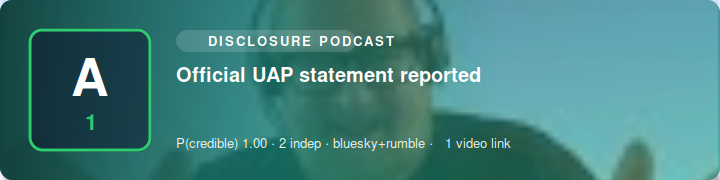
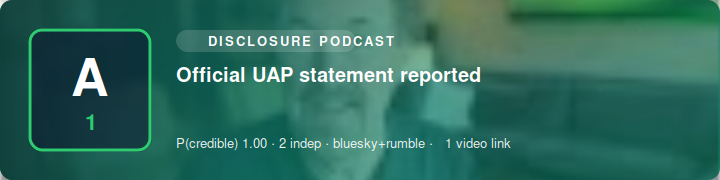
SITREP 2026-07-06 10:50 UTC

diff --git a/index.html b/index.html
@@ -1,1 +1,1 @@
-<!doctype html><meta charset=utf-8><title>Science Bob News — SITREP</title><style>body{font:16px/1.5 system-ui,sans-serif;max-width:760px;margin:2rem auto;padding:0 1rem;color:#111}h1{font-size:1.5rem}h2{margin-top:1.6rem;border-bottom:1px solid #ddd;padding-bottom:.2rem}ul{list-style:none;padding:0}li{margin:.9rem 0}.hl{font-weight:600}.meta{color:#555;font-size:.85rem}.src{font-size:.85rem}.vid{font-size:.85rem;margin-top:.15rem}.card{display:block;max-width:100%;height:auto;border-radius:8px;margin:.4rem 0 .5rem}.upd{background:#fde68a;padding:0 .3rem;border-radius:.2rem;font-size:.75rem}.sub{color:#777;font-size:.85rem}footer{color:#777;font-size:.8rem;margin-top:2rem;border-top:1px solid #ddd;padding-top:.6rem}</style><h1>🛸 Science Bob News</h1><div class="sub">UAP / UFO / USO SITREP · updated 2026-07-06 10:40 UTC · automated</div><h2>Corroborated</h2><ul><li><i>No corroborated reports.</i></li></ul><h2>Developing / unconfirmed</h2><ul><li><img class="card" src="https://n4hy.github.io/sciencebobnews-site/card_d_1.svg" alt="" width="720" height="180"><div class="hl">UAP whistleblower testimony reported</div><div class="meta">reliability <b>A1</b> · P(credible)=1.0 · 1 independent source(s) · mastodon</div><div class="src"><a href="https://mastodon.au/@vibewire/116871937286852378">@vibewire@mastodon.au</a></div></li><li><img class="card" src="https://n4hy.github.io/sciencebobnews-site/card_d_2.svg" alt="" width="720" height="180"><div class="hl">UAP report (Mind)</div><div class="meta">reliability <b>A1</b> · P(credible)=1.0 · 1 independent source(s) · rumble</div><div class="src"><a href="https://www.youtube.com/watch?v=Kt7sNS1Bx6E">@podcast</a></div><div class="vid">📹 <a href="https://www.youtube.com/watch?v=Kt7sNS1Bx6E">video</a></div></li><li><img class="card" src="https://n4hy.github.io/sciencebobnews-site/card_d_3.svg" alt="" width="720" height="180"><div class="hl">UAP report (McMinnville)</div><div class="meta">reliability <b>A1</b> · P(credible)=1.0 · 1 independent source(s) · rumble</div><div class="src"><a href="https://www.youtube.com/watch?v=7OT6uJ0yzVY">@podcast</a></div><div class="vid">📹 <a href="https://www.youtube.com/watch?v=7OT6uJ0yzVY">video</a></div></li><li><img class="card" src="https://n4hy.github.io/sciencebobnews-site/card_d_4.svg" alt="" width="720" height="180"><div class="hl">UAP report (Titles)</div><div class="meta">reliability <b>A1</b> · P(credible)=1.0 · 1 independent source(s) · rumble</div><div class="src"><a href="https://www.youtube.com/watch?v=xExbXEg6tVY">@podcast</a></div><div class="vid">📹 <a href="https://www.youtube.com/watch?v=xExbXEg6tVY">video</a></div></li><li><img class="card" src="https://n4hy.github.io/sciencebobnews-site/card_d_5.svg" alt="" width="720" height="180"><div class="hl">UAP whistleblower testimony reported (Frank)</div><div class="meta">reliability <b>A1</b> · P(credible)=1.0 · 1 independent source(s) · rumble</div><div class="src"><a href="https://www.youtube.com/watch?v=CxvFVjJKZtA">@podcast</a></div><div class="vid">📹 <a href="https://www.youtube.com/watch?v=CxvFVjJKZtA">video</a></div></li></ul><footer><b>Powered by Science Bob News.</b> Free to use with credit (see LICENSE). Headlines are factual restatements in the engine's own words; click sources for originals. Single-origin reposts collapse to one source; prosaic candidates flagged where offered.</footer>
+<!doctype html><meta charset=utf-8><title>Science Bob News — SITREP</title><style>body{font:16px/1.5 system-ui,sans-serif;max-width:760px;margin:2rem auto;padding:0 1rem;color:#111}h1{font-size:1.5rem}h2{margin-top:1.6rem;border-bottom:1px solid #ddd;padding-bottom:.2rem}ul{list-style:none;padding:0}li{margin:.9rem 0}.hl{font-weight:600}.meta{color:#555;font-size:.85rem}.src{font-size:.85rem}.vid{font-size:.85rem;margin-top:.15rem}.card{display:block;max-width:100%;height:auto;border-radius:8px;margin:.4rem 0 .5rem}.upd{background:#fde68a;padding:0 .3rem;border-radius:.2rem;font-size:.75rem}.sub{color:#777;font-size:.85rem}footer{color:#777;font-size:.8rem;margin-top:2rem;border-top:1px solid #ddd;padding-top:.6rem}</style><h1>🛸 Science Bob News</h1><div class="sub">UAP / UFO / USO SITREP · updated 2026-07-06 10:50 UTC · automated</div><h2>Corroborated</h2><ul><li><img class="card" src="https://n4hy.github.io/sciencebobnews-site/card_c_1.svg" alt="" width="720" height="180"><div class="hl">Official UAP statement reported</div><div class="meta">reliability <b>A1</b> · P(credible)=1.0 · 2 independent source(s) · bluesky+rumble</div><div class="src"><a href="https://www.youtube.com/watch?v=9c0p832gO-8">@podcast</a> · <a href="https://bsky.app/profile/did:plc:qxr7hyqqdiem2rgafwtkatt2/post/3mpxw6qtk4i2l">@did:plc:qxr7hyqqdiem2rgafwtkatt2</a></div><div class="vid">📹 <a href="https://www.youtube.com/watch?v=9c0p832gO-8">video</a></div></li></ul><h2>Developing / unconfirmed</h2><ul><li><img class="card" src="https://n4hy.github.io/sciencebobnews-site/card_d_1.svg" alt="" width="720" height="180"><div class="hl">UAP whistleblower testimony reported</div><div class="meta">reliability <b>A1</b> · P(credible)=1.0 · 1 independent source(s) · mastodon</div><div class="src"><a href="https://mastodon.au/@vibewire/116871937286852378">@vibewire@mastodon.au</a></div></li><li><img class="card" src="https://n4hy.github.io/sciencebobnews-site/card_d_2.svg" alt="" width="720" height="180"><div class="hl">UAP report (Mind)</div><div class="meta">reliability <b>A1</b> · P(credible)=1.0 · 1 independent source(s) · rumble</div><div class="src"><a href="https://www.youtube.com/watch?v=Kt7sNS1Bx6E">@podcast</a></div><div class="vid">📹 <a href="https://www.youtube.com/watch?v=Kt7sNS1Bx6E">video</a></div></li><li><img class="card" src="https://n4hy.github.io/sciencebobnews-site/card_d_3.svg" alt="" width="720" height="180"><div class="hl">UAP report (McMinnville)</div><div class="meta">reliability <b>A1</b> · P(credible)=1.0 · 1 independent source(s) · rumble</div><div class="src"><a href="https://www.youtube.com/watch?v=7OT6uJ0yzVY">@podcast</a></div><div class="vid">📹 <a href="https://www.youtube.com/watch?v=7OT6uJ0yzVY">video</a></div></li><li><img class="card" src="https://n4hy.github.io/sciencebobnews-site/card_d_4.svg" alt="" width="720" height="180"><div class="hl">UAP report (Titles)</div><div class="meta">reliability <b>A1</b> · P(credible)=1.0 · 1 independent source(s) · rumble</div><div class="src"><a href="https://www.youtube.com/watch?v=xExbXEg6tVY">@podcast</a></div><div class="vid">📹 <a href="https://www.youtube.com/watch?v=xExbXEg6tVY">video</a></div></li><li><img class="card" src="https://n4hy.github.io/sciencebobnews-site/card_d_5.svg" alt="" width="720" height="180"><div class="hl">UAP whistleblower testimony reported (Frank)</div><div class="meta">reliability <b>A1</b> · P(credible)=1.0 · 1 independent source(s) · rumble</div><div class="src"><a href="https://www.youtube.com/watch?v=CxvFVjJKZtA">@podcast</a></div><div class="vid">📹 <a href="https://www.youtube.com/watch?v=CxvFVjJKZtA">video</a></div></li></ul><footer><b>Powered by Science Bob News.</b> Free to use with credit (see LICENSE). Headlines are factual restatements in the engine's own words; click sources for originals. Single-origin reposts collapse to one source; prosaic candidates flagged where offered.</footer>

diff --git a/sitrep.md b/sitrep.md
@@ -1,8 +1,13 @@
 # 🛸 Science Bob News — UAP / UFO / USO SITREP
-*Updated 2026-07-06 10:40 UTC · auto-generated · sources credited & linked · reliability ratings are automated, not editorial*
+*Updated 2026-07-06 10:50 UTC · auto-generated · sources credited & linked · reliability ratings are automated, not editorial*
 
 ## Corroborated
-_No corroborated reports this cycle._
+
+![Official UAP statement reported](https://n4hy.github.io/sciencebobnews-site/card_c_1.svg)
+1. **Official UAP statement reported**  
+   reliability **A1** · P(credible)=1.0 · 2 independent source(s) · bluesky+rumble  
+   [@podcast](https://www.youtube.com/watch?v=9c0p832gO-8) · [@did:plc:qxr7hyqqdiem2rgafwtkatt2](https://bsky.app/profile/did:plc:qxr7hyqqdiem2rgafwtkatt2/post/3mpxw6qtk4i2l)  
+   📹 [video](https://www.youtube.com/watch?v=9c0p832gO-8)
 
 ## Developing / unconfirmed
 
